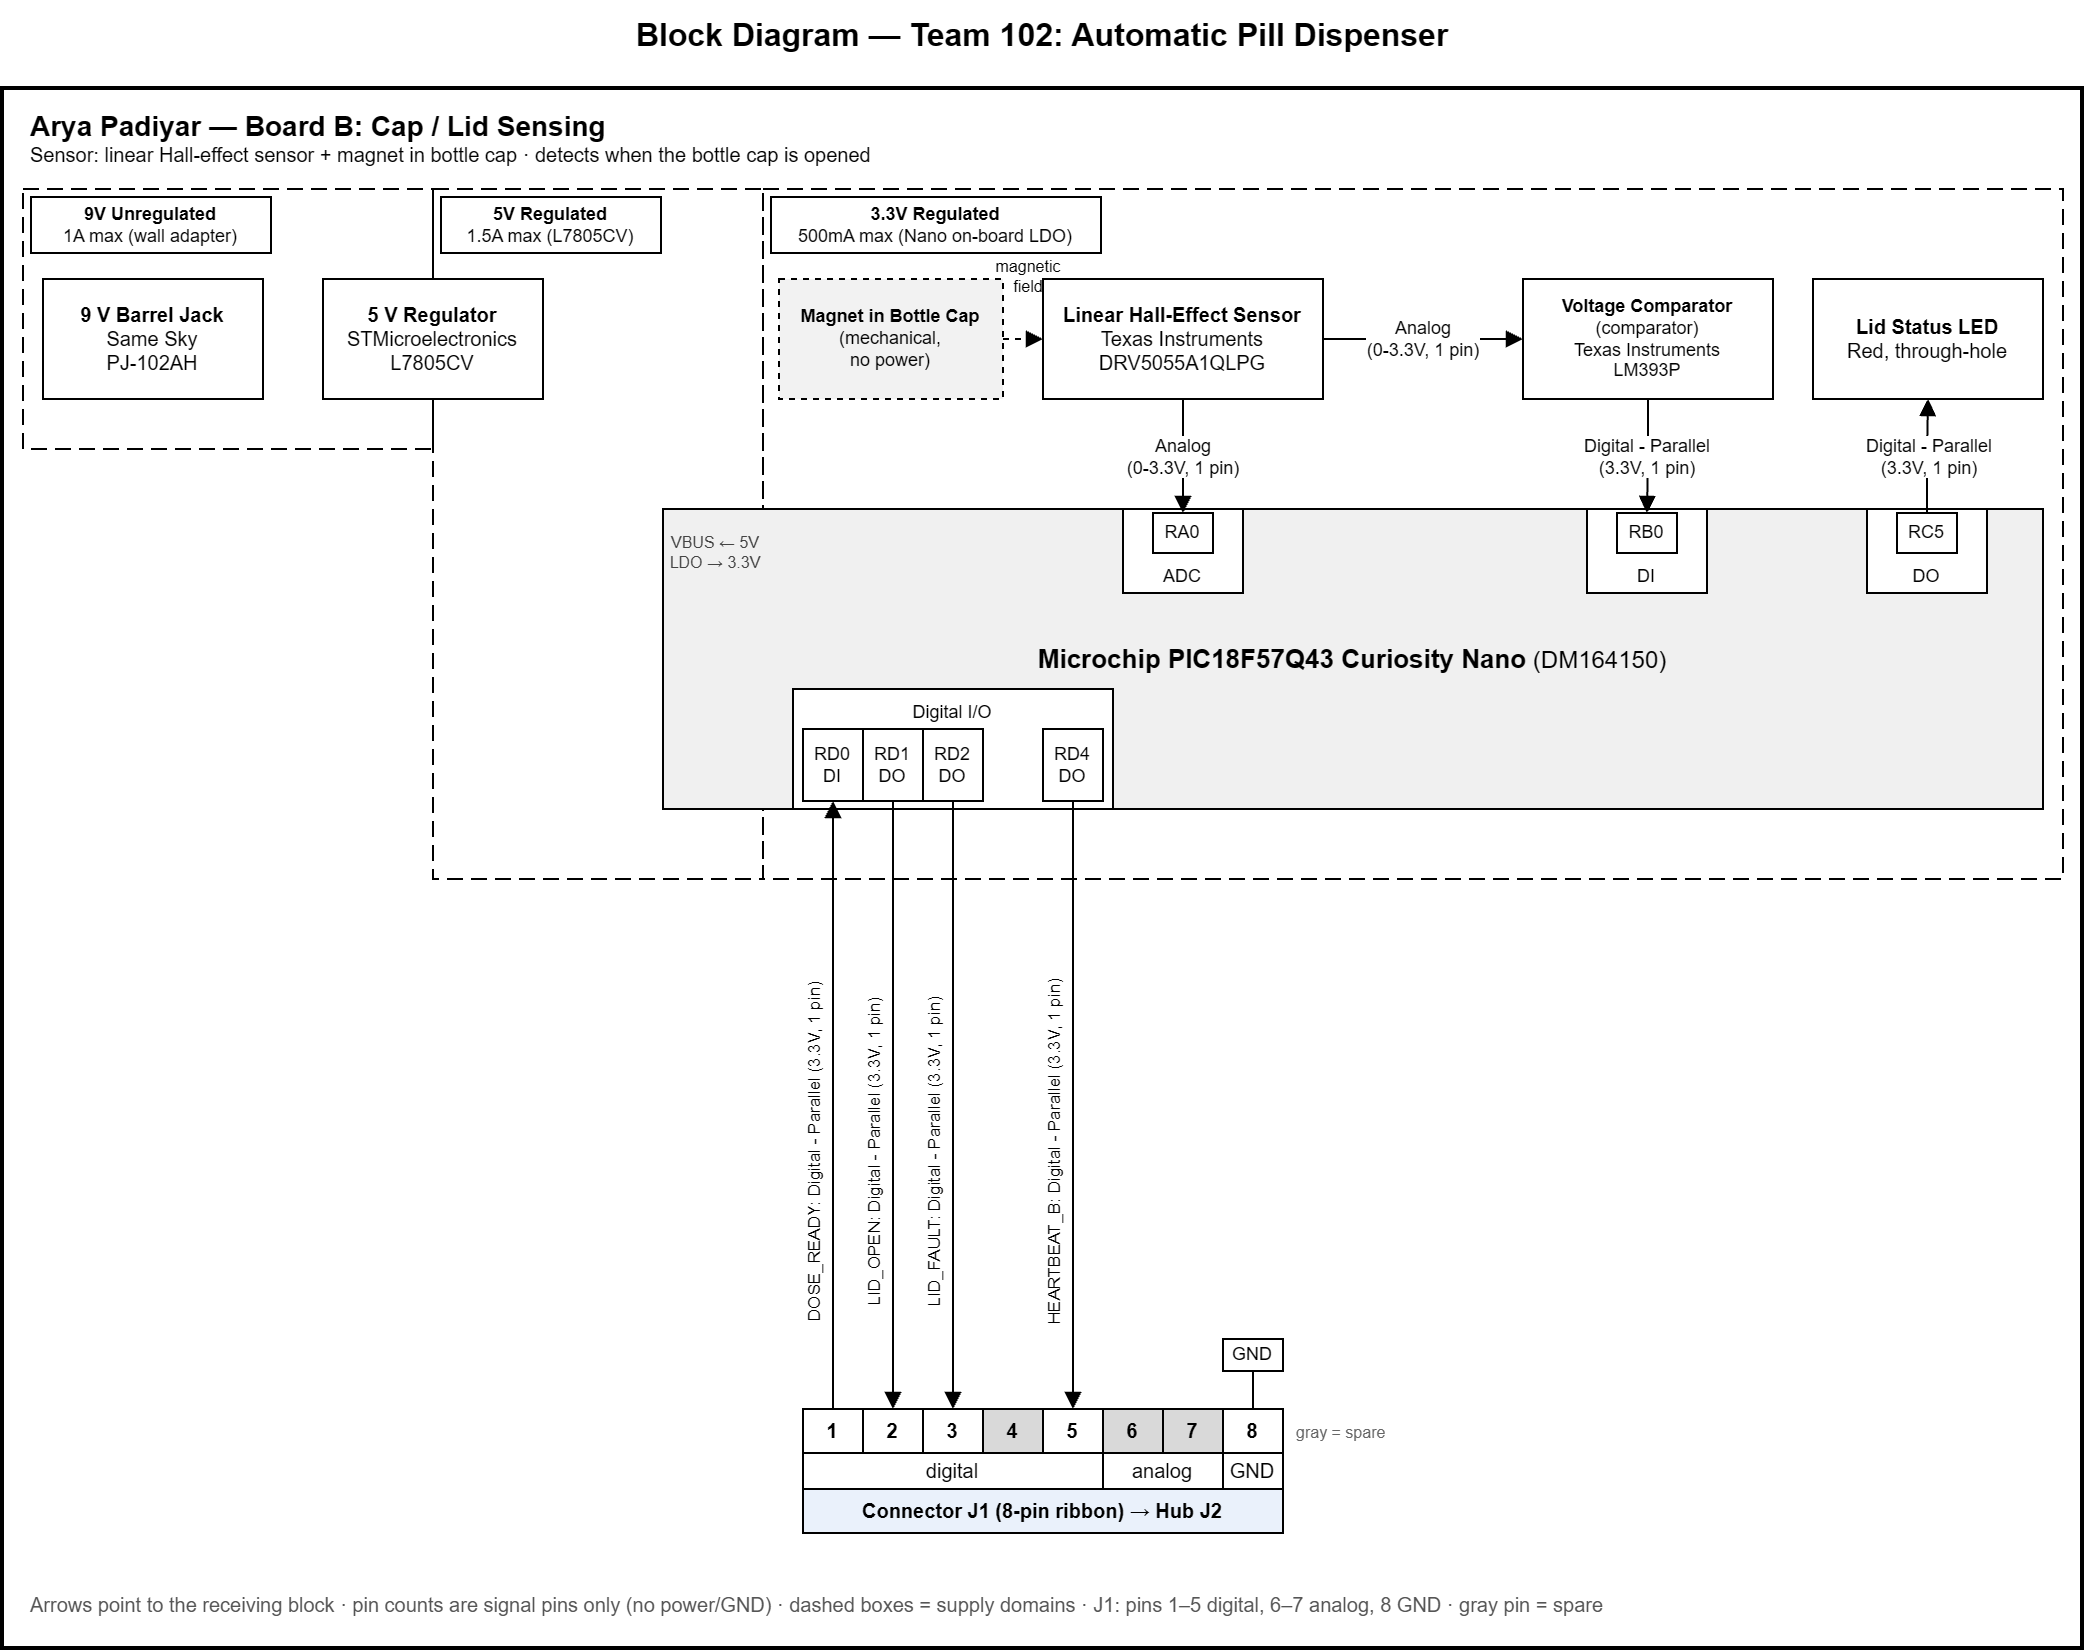
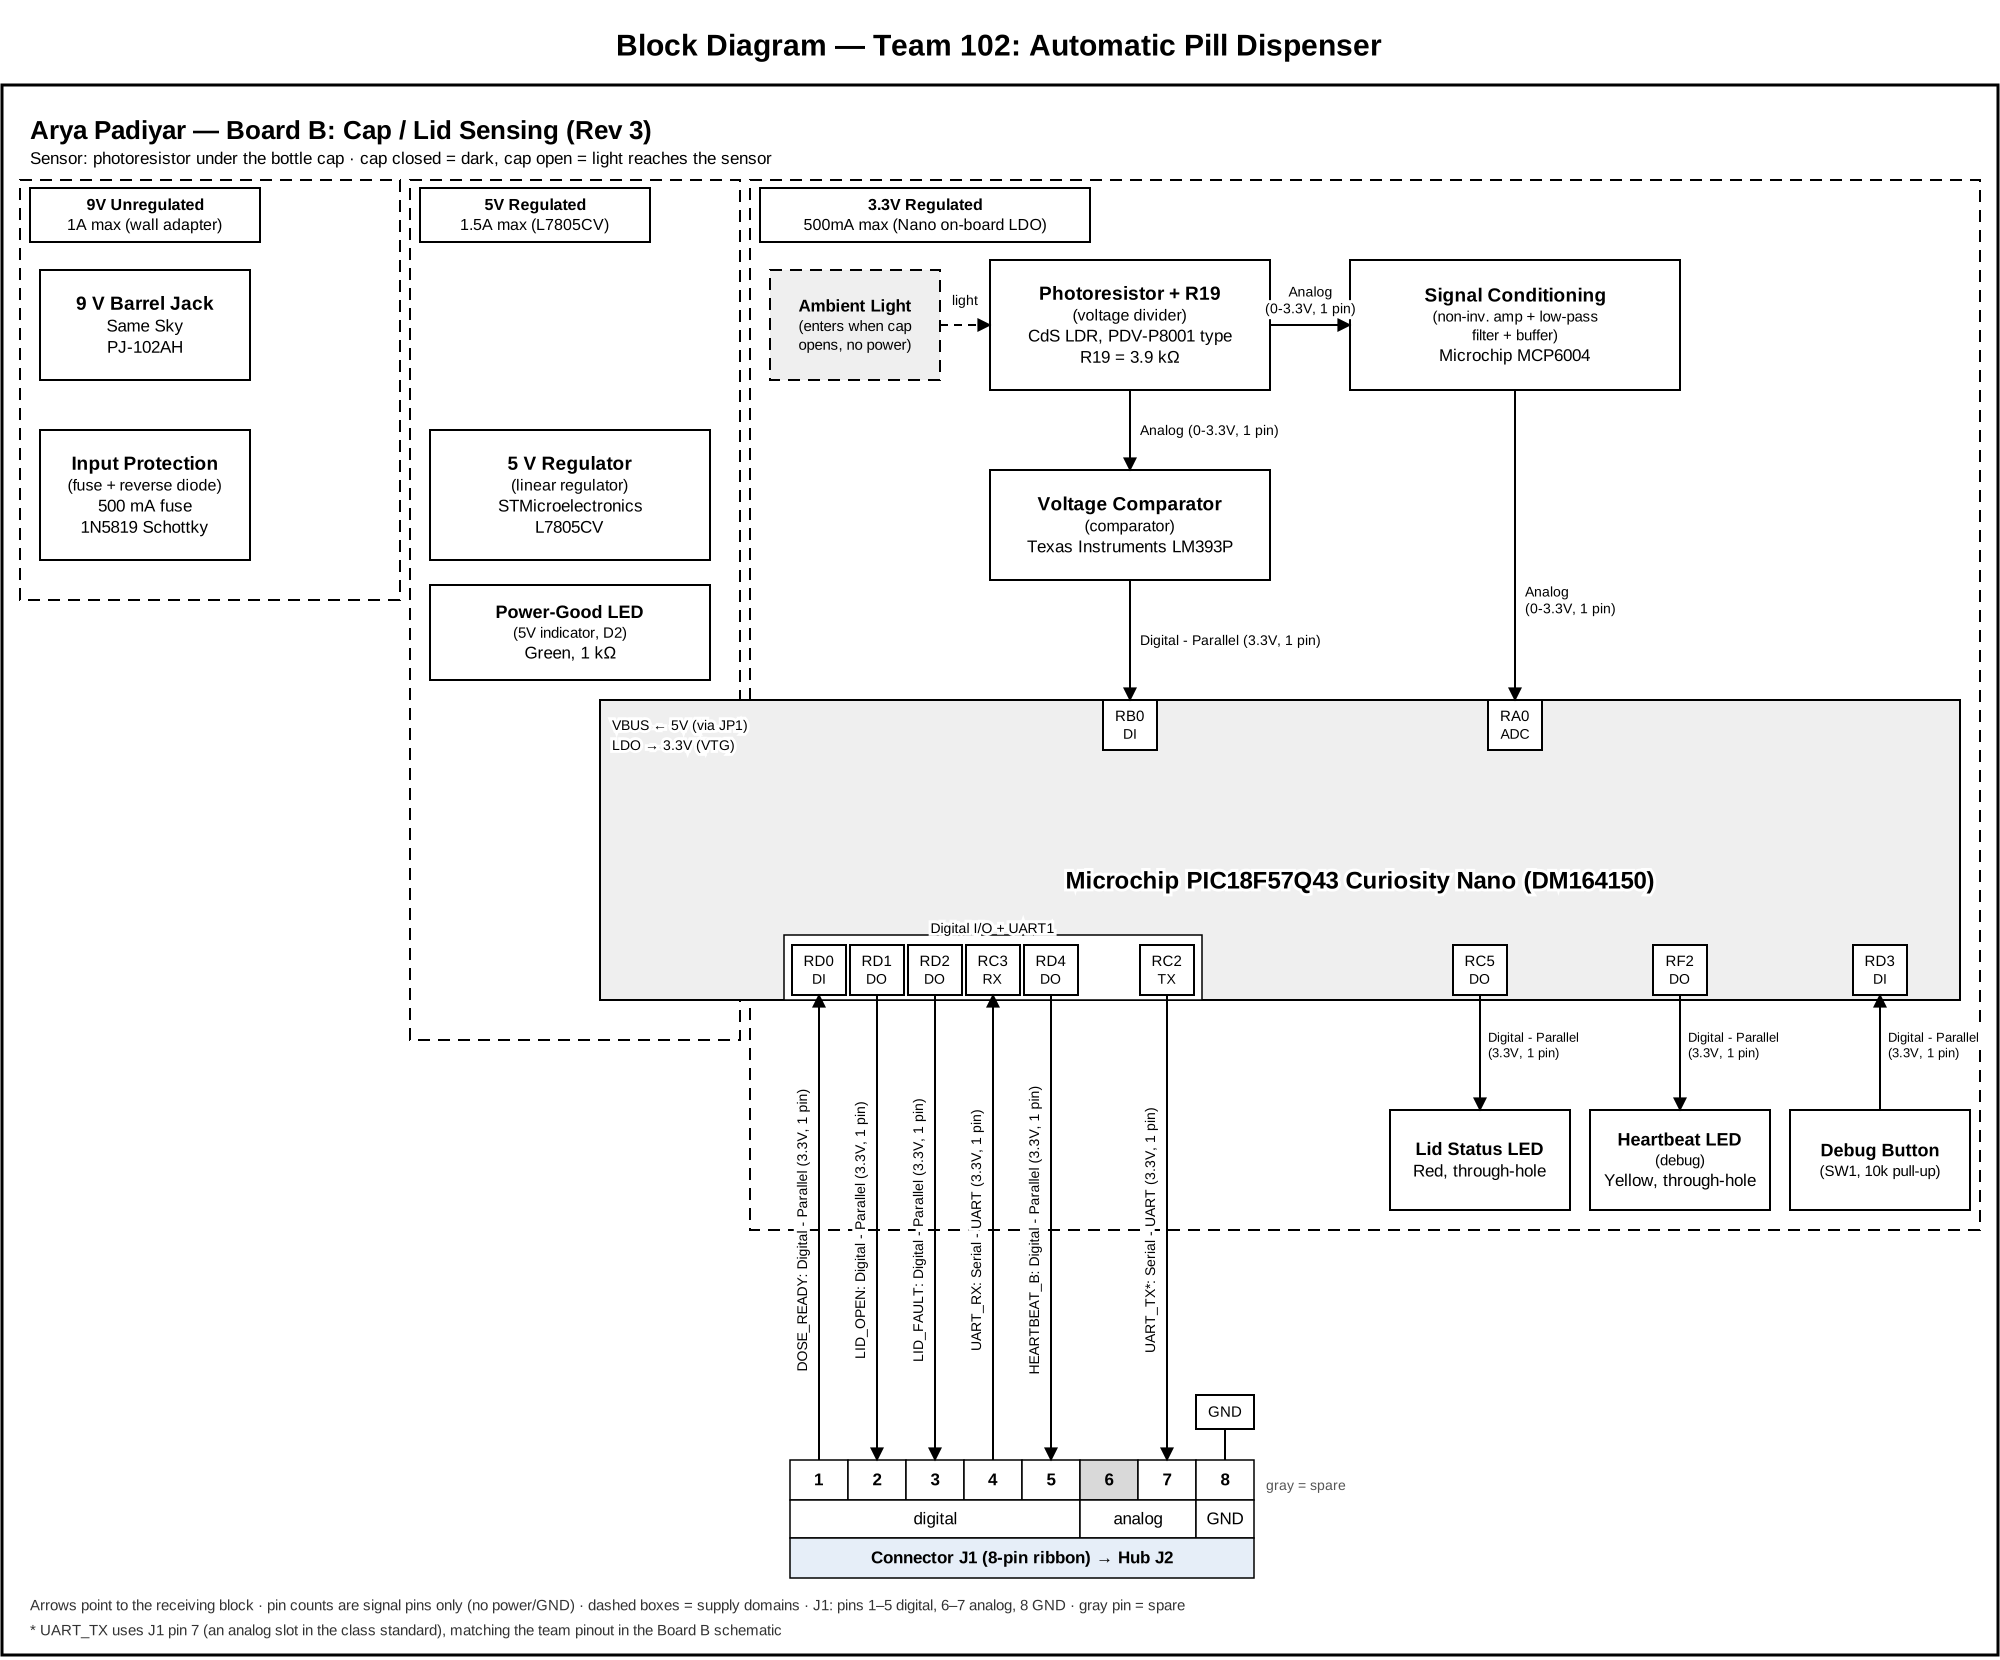
Block diagram Rev 3: photoresistor sensor, source files

diff --git a/docs/01-Block-Diagram/Block-Diagram.md b/docs/01-Block-Diagram/Block-Diagram.md
@@ -8,18 +8,42 @@ tags:
 ## Overview
 
 **Arya Padiyar — Team 102: Automatic Pill Dispenser**
-**Subsystem: Board B — Cap / Lid Sensing**
+**Subsystem: Board B — Cap / Lid Sensing (Rev 3)**
 
-This block diagram shows how my subsystem, Board B, is laid out and how it connects to the team's hub board
+This block diagram shows how my subsystem, Board B, is laid out and how it connects to the team's hub board.
 
-- **Power levels:** A 9V unregulated wall adapter enters through a DC barrel jack. An L7805CV linear regulator steps it down to 5V, which powers the PIC18F57Q43 Curiosity Nano through VBUS. The Nano's on-board LDO supplies 3.3V to the sensor, comparator and all logic.
-- **Sensor:** A DRV5055 linear Hall-effect sensor detects a magnet in the bottle cap. Its analog output goes to the ADC on RA0, so I can read the raw field strength, and to an LM393 comparator. The comparator gives a clean open/closed digital signal on RB0.
-- **Actuator / output:** A red status LED on RC5 shows the lid state locally.
-- **Team connections:** Board B connects to the hub (J2) through 8-pin ribbon connector J1, following the class standard: pins 1–5 digital, 6–7 analog, 8 GND. I use pins 1, 2, 3 and 5, and pins 4, 6 and 7 are spare.
+- **Power levels:** A 9V wall adapter enters through a DC barrel jack, then a 500 mA fuse and a 1N5819 reverse-polarity diode. An L7805CV linear regulator steps it down to 5V, which feeds the PIC18F57Q43 Curiosity Nano's VBUS through jumper JP1. The Nano's on-board LDO supplies 3.3V (VTG) to the sensor, op-amp, comparator and all logic, so no signal can go above the PIC's 3.3V pin limit.
+- **Sensor:** A photoresistor (the same light-dependent resistor from our Resistive Sensor Lab) sits under the bottle cap in a voltage divider with R19 = 3.9 kΩ. With the cap closed the sensor is dark (high resistance, low voltage). When the cap opens, light reaches it and the divider voltage rises.
+- **Signal chain:** The divider output goes two ways. One path runs through an MCP6004 non-inverting amplifier, a low-pass filter (fc ≈ 15.9 Hz) and a unity-gain buffer into the ADC on RA0, so I can read the actual light level. The other path goes to an LM393 comparator, which gives a clean open/closed digital signal on RB0.
+- **Outputs and debug:** A red lid status LED on RC5, a yellow heartbeat LED on RF2, a debug push button on RD3, and a green power-good LED on the 5V rail.
+- **Team connections:** Board B connects to the hub (J2) through 8-pin ribbon connector J1. I use pins 1–5 and 7 for signals, pin 8 for GND, and pin 6 is spare.
 
 ## Block Diagram
 
 ![Board B Block Diagram](individual-block-diagram.png)
+
+Source files: [block diagram source (.drawio + .svg)](block-diagram-source.zip). Related pages: [Component Selection](../02-Component-Selection/Component-Selection.md) · [Schematic](../04-Schematic/schematic.md) · [Power Budget](../05-Power-Budget/Power-Budget.md)
+
+## What changed since the last version
+
+| Change | Why |
+|---|---|
+| Replaced the linear Hall-effect sensor (DRV5055) and cap magnet with a photoresistor + 3.9 kΩ (R19) voltage divider | Recommended by the teaching team (Zane Reynolds and Dr. Nichols, Oct 21). It still meets the analog-sensor requirement and works the same way (analog value → ADC + comparator), but it doesn't need a magnet mounted in the cap. It also reuses a circuit we already built and characterized in the light lab. |
+| Added the MCP6004 signal-conditioning block (amplifier, low-pass filter, buffer) | The schematic already had this stage; the diagram now matches it. |
+| Added input protection (fuse + reverse diode) and JP1 to VBUS | Matches the schematic's power section. |
+| Added UART_RX (pin 4) and UART_TX (pin 7) to J1, the heartbeat LED, the debug button and the power-good LED | Matches the team pinout and the debug features in the schematic. |
+| Removed the power arrows | Power is shown by the dashed supply-domain boxes, as the block diagram checklist requires. |
+
+## How I structured the diagram
+
+I grouped every block by the supply rail it runs on (9V, 5V, 3.3V dashed boxes) so the power path reads left to right: wall adapter → protection → regulator → Nano. The sensing path then reads left to right along the top (light → divider → conditioning → MCU), and everything that leaves the board goes straight down to J1, so each ribbon pin lines up with the MCU pin that drives it. Arrows always point at the receiving block, which makes the direction of each team signal obvious during review.
+
+## How it meets the product requirements
+
+- **Detect when the cap is opened:** the divider voltage rises sharply when light reaches the sensor. From my light-lab measurements (46.3 kΩ covered, 11.07 kΩ low light, 1.54 kΩ room light), the divider gives about 0.26 V with the cap closed and 0.86–2.37 V with the cap open on the 3.3 V rail.
+- **Analog signal chain:** RA0 reads the conditioned light level, so firmware can tune the open/closed threshold and flag LID_FAULT when the reading is outside the expected range (for example, stuck at the 3.3 V rail).
+- **Reliable digital state:** the LM393 with hysteresis gives the hub a clean LID_OPEN signal without chatter at the threshold.
+- **Safe logic levels:** every analog part runs from 3.3 V, so nothing can exceed the PIC's pin limits.
 
 ## Connector J1 → Hub J2
 
@@ -28,10 +52,10 @@ This block diagram shows how my subsystem, Board B, is laid out and how it conne
 | 1 | DOSE_READY | Hub → Board B | RD0 (DI) | Digital - Parallel (3.3V, 1 pin) |
 | 2 | LID_OPEN | Board B → Hub | RD1 (DO) | Digital - Parallel (3.3V, 1 pin) |
 | 3 | LID_FAULT | Board B → Hub | RD2 (DO) | Digital - Parallel (3.3V, 1 pin) |
-| 4 | — | Spare (digital) | — | — |
+| 4 | UART_RX | Hub → Board B | RC3 (UART1 RX) | Serial - UART (3.3V, 1 pin) |
 | 5 | HEARTBEAT_B | Board B → Hub | RD4 (DO) | Digital - Parallel (3.3V, 1 pin) |
 | 6 | — | Spare (analog) | — | — |
-| 7 | — | Spare (analog) | — | — |
+| 7 | UART_TX | Board B → Hub | RC2 (UART1 TX) | Serial - UART (3.3V, 1 pin) |
 | 8 | GND | — | GND | — |
 
 ## Major Components
@@ -39,7 +63,10 @@ This block diagram shows how my subsystem, Board B, is laid out and how it conne
 | Function | Manufacturer | Part Number | Supply |
 |---|---|---|---|
 | Microcontroller | Microchip | PIC18F57Q43 Curiosity Nano (DM164150) | 5V in / 3.3V logic |
-| Linear Hall-effect sensor | Texas Instruments | DRV5055A1QLPG | 3.3V |
+| Photoresistor (light sensor) | Advanced Photonix (equivalent) | CdS LDR, PDV-P8001 type, with R19 = 3.9 kΩ | 3.3V |
+| Op-amp (amp, filter, buffer) | Microchip | MCP6004 | 3.3V |
 | Voltage comparator | Texas Instruments | LM393P | 3.3V |
 | 5V linear regulator | STMicroelectronics | L7805CV | 9V in / 5V out |
+| Reverse-polarity diode | — | 1N5819 Schottky | 9V |
+| Input fuse | — | 500 mA slow-blow, TR5 socket | 9V |
 | DC barrel jack | Same Sky | PJ-102AH | 9V |
